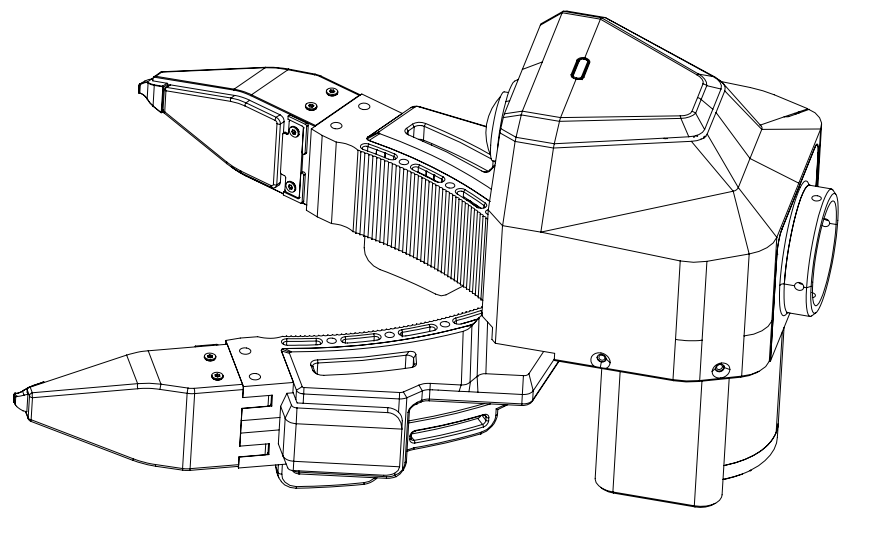
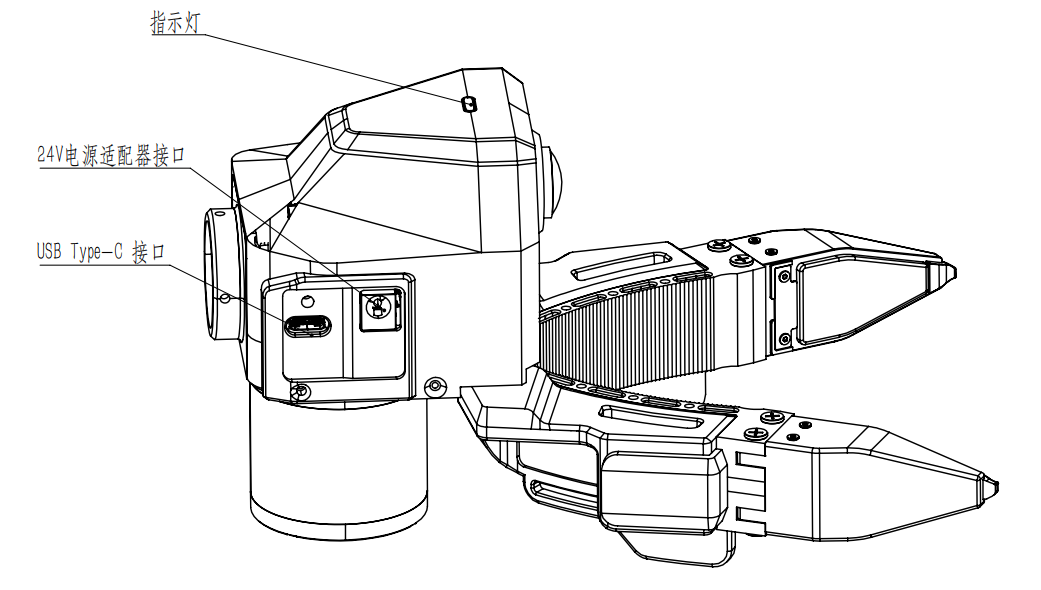
docs: 硬件章更新为官方《TC-GU-01 硬件使用说明 v0.0.1》
按 v0.0.1 重写:安全须知/产品组成/主爪连接/从爪安装/传感器维护/
上下电顺序/技术参数/异常排查;替换为 11 张新配图,删除旧图(含 6.9MB 巨图)。

diff --git a/docs/hardware.md b/docs/hardware.md
@@ -1,168 +1,159 @@
 # 硬件介绍
 
-TacCap-Gripper(对外市场名 **千觉 XTac UMI G1**)的机械、电气与操作构成。本章整理自硬件团队
-《TC-GU-01 硬件使用说明》框架,面向数采使用的**设备了解与上手**。
+TacCap-Gripper(对外市场名 **千觉 XTac UMI G1**)的机械、电气与操作说明。内容整理自硬件团队
+《TC-GU-01 硬件使用说明 **v0.0.1**》,面向数采使用的**设备了解与连接上手**。
 
-!!! info "版本与完善度"
-    硬件资料版本 **v1.0.0(夹爪 — 笔记本电脑)**;v2.0.0(夹爪 — 数采背包)待发布。
-    本页按硬件团队框架搭建,**标「待补」处**为对方仍在补充的内容(含拆箱图、视触觉拆装、
-    数采盒子连接、异常表、OTA 等),到位后接入。
+!!! danger "安全须知(连接/上电/拆装前必读)"
+    | 风险项 | 要求 | 后果 |
+    |---|---|---|
+    | 主夹爪供电 | 仅用配套 USB Type-C 线连数采终端,**DC 5V/500mA** | 规格不符可能损坏设备 |
+    | 禁止快充直连 | **禁止 9V/12V 快充适配器直连主夹爪** | 可能烧毁控制板 |
+    | 从夹爪供电 | 供电与通信分开,供电用 **24V 适配器** | 电源接错可能损坏硬件 |
+    | 线缆插拔 | 插拔带锁紧螺钉的 Type-C 前先停止采集;拔出前先松螺钉 | 避免接口受力/数据中断 |
+    | 静电防护 | 上下电、拆装传感器时注意防静电 | 静电影响传感器/通信 |
+    | 传感器表面 | 避免尖锐物触碰、划伤、挤压视触觉表面 | 弹性体/光学损伤影响数据 |
 
-## 部件构成
+## 产品组成
 
-| 部件 | 说明 | 接口 |
-|---|---|---|
-| 电机夹爪(motor jaw) | 主爪采集时不上电,手动带动;从爪经 FDCAN 透传灵足电机 | FDCAN1 @ 1 Mbps |
-| 编码器(Encoder) | 夹爪开合角(SDK 读数标定后闭合=0);开合规格见 [产品参数](#specs) | MCU |
-| IMU | 加速度 / 角速度 / 磁力 / 温度 | MCU |
-| 视触觉传感器 ×2 | 左右指各一,三色光视触觉成像 | UVC(`/dev/video*`) |
-| 腕部鱼眼相机 | 手腕视角 RGB,超大视场角 | UVC(`/dev/video*`) |
-| 主控 MCU(TC-GU-01) | STM32H562 + ThreadX | USB 串口 |
+| 部件 | 说明 |
+|---|---|
+| 主夹爪(区分左右) | 人手侧操作与数据采集;左右按标识区分;Type-C 统一供电+通信 |
+| 从夹爪(不区分左右) | 安装于机器人末端,用于执行端操作或回放;24V 供电 + Type-C 通信 |
+| 视触觉传感器 ×2 | 左右指各一,三色光视触觉成像 |
+| 腕部鱼眼相机 | 手腕视角 RGB,超大视场角 |
+| PICO 头显 + Pad | 头显用于头部视角与主爪轨迹提取;Pad 用于任务操作/状态查看(见 [3.4 Pico4 配置](03-host-hardware.md#34)) |
+| 主控 MCU(TC-GU-01) | STM32H562 + ThreadX |
 
-## 主爪与从爪 {#master-follower}
+!!! note "包装清单以随货为准"
+    标准系统配置(线缆、电源适配器、采集终端等)以**合同配置及随货发货清单**为准;
+    缺少关键线缆/电源/终端时请联系项目负责人或技术支持,勿自行替代。
 
 ### 主夹爪(区分左右)
 
-主爪通信与供电统一走 **Type-C**;左右按序列号「单左双右」区分(见 [序列号编码规则](#sn))。
+=== "左主夹爪"
 
-=== "主爪 · 左"
+    ![左主夹爪示意图](assets/hardware/master-left.png){ width="360" }
 
-    ![主夹爪 左](assets/hardware/main-gripper-left.png){ width="420" }
+=== "右主夹爪"
 
-=== "主爪 · 右"
+    ![右主夹爪示意图](assets/hardware/master-right.png){ width="360" }
 
-    ![主夹爪 右](assets/hardware/main-gripper-right.png){ width="420" }
+主夹爪的电源与通信统一通过 USB Type-C 完成;**按键**用于录制控制,**指示灯**用于判断运行状态。
+
+![主夹爪操作部件示意图(接口 / 按键 / 指示灯)](assets/hardware/master-controls.png){ width="480" }
 
 ### 从夹爪(不区分左右)
 
-![从夹爪](assets/hardware/follower-gripper.png){ width="420" }
+![从夹爪示意图](assets/hardware/follower-gripper.png){ width="360" }
 
-从爪的通信与供电**分开**:供电用 **24V 适配器**,通信用 Type-C。
+从夹爪安装在机器人末端,当前硬件不区分左右;安装时注意法兰方向、线缆走线与机器人运动空间。
 
-### 视触觉传感器
+## 主夹爪连接与使用 {#install}
 
-!!! warning "待补"
-    视触觉传感器示意图与拆装说明由硬件团队补充。
+### 连接前检查
 
-## 接口与供电 {#interface}
+- 备齐:左/右主夹爪、两根 **USB Type-C to Type-C 锁紧线**、笔记本/数采终端。
+- 确认**未使用 9V/12V 快充适配器**直连主夹爪。
+- 检查 Type-C 锁紧端完好、夹爪接口内无异物。
+- 检查视触觉传感器表面无污渍、划伤、松动、异物。
 
-### 电源 & USB 接口
+### 连接步骤
 
-![电源与 USB 接口位置](assets/hardware/interface-power-usb.png){ width="520" }
+主夹爪与上位机的连接关系:
 
-- 夹爪通过配套 **USB Type-C(C-to-C)** 线束连接数据采集终端;整机工作电源由 Type-C 供给,
-  标准供电 **DC 5V / 500 mA**。
-- 线材**带固定螺钉的一端接夹爪**,插入后拧紧螺钉。
+![主夹爪连接关系简图](assets/hardware/master-connection.jpg){ width="560" }
 
-!!! danger "禁止快充直连"
-    **禁止使用快充 9V / 12V 适配器直连夹爪**,否则会**烧毁夹爪控制板**。
+1. 取出 USB Type-C 通讯线。
+2. 连接主夹爪本体端的 Type-C 接口,**旋紧锁紧螺钉**。
+3. 另一端接数采终端的 Type-C 口,在采集软件中确认主夹爪通信正常。
 
-### 内部通信(技术参考)
+![主夹爪连接](assets/hardware/master-connect.png){ width="480" }
 
-```mermaid
-flowchart LR
-    HOST[数采终端] -- USB Type-C --> CH343[CH343 双串口]
-    CH343 -- USART3 3Mbps --> MCU[STM32H562]
-    MCU -- FDCAN1 1Mbps --> LZ[灵足电机<br/>从爪]
-    MCU --- IMU & ENC[编码器]
-    HOST -- UVC --> CAMS[2× 视触觉 + 1× 腕相机]
-```
+### 上电与识别
 
-- MCU 串口:CH343(`1a86:55d2`),枚举 `/dev/ttyACM*`,USART3 @ 3 Mbps。
-- 相机:视触觉与腕相机为 UVC(`/dev/video*`)。
+主夹爪**无需单独电源**,供电与通信都走 Type-C。连接后观察指示灯,并在采集软件中确认左右主夹爪识别正常。
 
-## 按键与指示灯 {#buttons-leds}
+### 指示灯状态 {#buttons-leds}
 
-### 按键
-
-![按键位置](assets/hardware/buttons.png){ width="420" }
-
-| 按键位置 | 动作 | 功能 |
+| 指示灯 | 含义 | 用户动作 |
 |---|---|---|
-| 主爪 · 左键 | 单击 | **开始录制** |
-| | 双击 | 用户自定义 |
-| | 长按 | 用户自定义 |
-| 主爪 · 右键 | 单击 | 切换下一流程 |
-| | 双击 | 重新录制当前回合 |
-| | 长按 | 退出当前录制 |
+| 绿色长亮 | 运行中 | 已上电,正常运行 |
+| 绿色闪烁 | 正在录制 | 保持操作,避免断电/拔线 |
+| 红色闪烁 | 故障 | 停止录制,按[异常排查](#troubleshoot)检查 |
+| 蓝色闪烁 | OTA 升级中 | 升级期间**不要断电/拔线** |
+
+### 按键功能
+
+| 按键 | 动作 | 功能 | 场景 |
+|---|---|---|---|
+| 主爪左键 | 单击 | **开始录制** | 准备完成后开始采集 |
+| 主爪左键 | 双击 / 长按 | 用户自定义 | 按项目软件配置 |
+| 主爪右键 | 单击 | 切换下一流程 | 当前步骤完成 |
+| 主爪右键 | 双击 | 重新录制当前回合 | 回合失败/操作错误/数据异常 |
+| 主爪右键 | 长按 | 退出当前录制 | 需中断录制时 |
 
 !!! note "与软件采集的联动"
-    按键功能为**设备侧定义**;与 `lerobot-record` 采集流程的具体联动以实际集成为准,
-    采集操作见 [数据采集](05-data-collection.md)。
+    按键为**设备侧定义**;与 `lerobot-record` 的具体联动以实际集成为准,采集操作见 [数据采集](05-data-collection.md)。
 
-### 指示灯
+## 从夹爪安装与连接
 
-![指示灯位置](assets/hardware/leds.png){ width="420" }
+### 安装前检查
 
-| 状态 | 含义 |
-|---|---|
-| 绿色长亮 | 运行中 |
-| 绿色闪烁 | 正在录制 |
-| 红色闪烁 | 故障 |
-| 蓝色闪烁 | OTA 升级中 |
+- 确认机器人已停机、处于安全姿态。
+- 确认末端法兰尺寸、螺钉规格、安装方向与末端负载满足项目要求。
+- 确认 24V 适配器、Type-C 通信线与锁紧结构完好。
+- 规划线缆走线,避免与关节/夹爪运动区/障碍物干涉。
 
-## 安装与连接 {#install}
+### 法兰安装
 
-### 拆箱
+从夹爪通过法兰安装到机器人末端(尺寸/孔位见下图)。
 
-!!! warning "待补"
-    拆箱示意图待补充。
+=== "法兰安装"
 
-### 主爪连接(笔记本电脑)
+    ![从夹爪法兰安装](assets/hardware/follower-flange-1.png){ width="420" }
 
-![夹爪 — 笔记本连接](assets/hardware/connection-laptop.jpg){ width="640" }
+=== "法兰尺寸"
 
-如上图,使用**两根 Type-C to Type-C 线材**,连接左右主爪到数采终端。
+    ![从夹爪法兰安装尺寸](assets/hardware/follower-flange-2.png){ width="420" }
 
-!!! note "待补:数采盒子连接(TBD)"
-    夹爪 — 数采背包/盒子的整机连接示意图待 v2.0.0 补充。
+### 电源与通信连接
 
-### 从爪安装
+从夹爪**通信与供电分开**:通信走 Type-C,供电用 24V 适配器。
 
-![从爪法兰安装](assets/hardware/follower-flange-mount.png){ width="420" }
+![从夹爪连接关系简图](assets/hardware/follower-connection.jpg){ width="560" }
 
-- **法兰安装**:按上图将从爪安装到机器人法兰。
-- **数据电源线连接**:*待补*。
+1. 取出 USB Type-C 通讯线、24V 电源适配器。
+2. 连接从夹爪本体端的 **24V 电源适配器**。
+3. 将 Type-C 锁紧线带螺钉的一端接从夹爪本体,**旋紧锁紧螺钉**。
+4. 另一端接数采终端,在软件中确认从夹爪通信正常。
 
-### 视触觉传感器拆装
+![从夹爪连接](assets/hardware/follower-connect.png){ width="480" }
 
-!!! warning "待补"
-    传感器拆装示意图待补充。
+!!! warning "线缆与安装检查"
+    确认从夹爪固定牢靠、24V 连接可靠、Type-C 已锁紧并留足余量;线缆不会在机器人运动中被拉扯/弯折/缠绕。
+    **首次运行前建议低速测试**,确认无干涉。
 
-## 上下电步骤 {#power}
+## 视触觉传感器维护与拆装
 
-### 上电
+![传感器拆装步骤](assets/hardware/sensor-removal.png){ width="480" }
 
-=== "主爪"
+- 表面有灰尘时用**无尘布**轻拭。
+- **不要**用尖锐物刮擦表面;不要让胶水/油污/金属碎屑/腐蚀性液体接触表面。
+- 拆装后若图像质量明显下降,检查传感器是否压紧、有无污渍,或**重新标定**。
 
-    主爪无单独电源,通信与供电统一用 Type-C:
+更多保养见 [维护保养](maintenance.md)。
 
-    1. 将 Type-C 线带螺栓锁扣的一端连接到夹爪本体,旋紧螺栓。
-    2. 将另一端连接到数采终端的 Type-C 口。
+## 上电与下电顺序
 
-=== "从爪"
+| 设备 | 供电 | 上电顺序 | 下电顺序 |
+|---|---|---|---|
+| 主夹爪 | USB Type-C,DC 5V/500mA | 先连夹爪端并锁紧,再连数采终端 | 先拔数采终端端,再松螺钉拔夹爪端 |
+| 从夹爪 | 24V 适配器 + Type-C | 先连 24V 电源,再连 Type-C 并锁紧 | 先拔数采终端端,再断 24V,最后拔夹爪端 Type-C |
 
-    从爪通信与供电分开(供电 24V 适配器):
+上电后观察指示灯并在软件确认识别正常;下电前先**停止当前采集/录制/机器人运动/回放**。
 
-    1. 连接夹爪本体端的电源适配器。
-    2. 将 Type-C 线带螺栓锁扣的一端连接到夹爪本体。
-    3. 将另一端连接到数采终端的 Type-C 口。
-
-### 下电
-
-=== "主爪"
-
-    1. 拔掉数采终端的 Type-C 线。
-    2. 松开夹爪本体 Type-C 的锁扣螺栓,拔掉夹爪上的 Type-C 线。
-
-=== "从爪"
-
-    1. 拔掉数采终端的 Type-C 线。
-    2. 拔掉夹爪本体的电源适配器。
-    3. 拔掉夹爪本体的 Type-C 线。
-
-!!! warning "注意静电"
-    上下电过程中注意防静电。
+!!! warning "静电与异常"
+    上下电注意防静电。若出现异常重启、无法识别或红灯闪烁,立即停止并按[异常排查](#troubleshoot)处理。
 
 ## 序列号编码规则 {#sn}
 
@@ -175,59 +166,53 @@ product batch│  seq patch  seq    : 末位奇→左, 偶→右(单左双右)
              line          patch  : m=Master(主/Leader), s=Slave(从/Follower)
 ```
 
-## 产品参数 {#specs}
+## 技术参数 {#specs}
 
-参数以**市场部对外官方资料为准**(整机能力)。采集时的实际速率可按需配置(例如触觉以较低帧率录制),
-属**使用选择**,不改变传感器规格。
+### 电气与接口
 
-### 基础与结构
+| 项目 | 主夹爪 | 从夹爪 |
+|---|---|---|
+| 供电 | USB Type-C | 24V 电源适配器 |
+| 通信 | USB Type-C | USB Type-C |
+| 标准供电规格 | DC 5V/500mA | 24V |
+| 线缆 | 配套 Type-C to Type-C 锁紧线 | Type-C 通信线 + 24V 电源线 |
+| 禁止事项 | 禁止 9V/12V 快充直连 | 禁止供电规格不匹配/带故障电源 |
+
+### 产品规格(整机)
+
+参数以**市场部对外官方资料为准**。采集时实际速率可按需配置(如触觉以较低帧率录制),属**使用选择**,不改变传感器规格。
 
 | 参数项 | 规格 |
 |---|---|
-| 夹爪类型 | 二指结构 |
-| 外形尺寸 | 145 × 186 × 170 mm(长 × 宽 × 高) |
-| 重量(主爪) | 约 370 g |
-| 最大负载 | 2.5 kg |
+| 夹爪类型 / 外形 | 二指结构;145 × 186 × 170 mm |
+| 重量(主爪)/ 负载 | 约 370 g;最大 2.5 kg |
 | 开合行程 / 角度 | 0–150 mm / -9° 至 +50° |
-| 续航 | 3 小时,或使用电源适配器 |
-| 供电 | 主爪:USB Type-C,DC 5V/500mA;从爪:24V 适配器(⚠️ 禁快充直连) |
-| 通信方式 | USB 2.0(Type-C,C-to-C) |
-| 存储 | 本地、上云 |
-
-### 传感、同步与数据
-
-| 参数项 | 规格 |
-|---|---|
-| 多设备时间同步 | 5 ms |
-| 空间定位精度 | < 3 mm |
-| 视触觉传感器 | 2 × 三色光视触觉;量程 0–25 N |
-| 触觉帧率 / 分辨率 | 120 FPS;640 × 480 MJPG |
-| 触觉数据类型 | 原始触觉 / 三维形貌;三维分布力 / 六维合力 |
+| 续航 | 3 小时,或电源适配器 |
+| 多设备时间同步 / 定位 | 5 ms;< 3 mm |
+| 视触觉 | 2 × 三色光,量程 0–25 N,120 FPS(640×480 MJPG) |
 | IMU | 9 轴,200 Hz |
-| 腕部鱼眼相机 | FOV 190°;1920 × 1080 @ 60 FPS MJPG |
-| 输出数据类型 | RGB 图像、多模态触觉、夹爪开口角度、IMU、空间定位轨迹 |
+| 腕部鱼眼相机 | FOV 190°;1920×1080 @ 60 FPS MJPG |
+| 输出数据 | RGB、多模态触觉、夹爪开口角度、IMU、空间定位轨迹 |
 
-!!! note "实际录制速率"
-    上表为传感器/整机规格。数采时可配置更低速率(如触觉常以较低帧率录制),
-    见 [数据采集 → 录制选项](05-data-collection.md#55)。
+!!! note "内部通信(技术参考)"
+    对外接口为 USB Type-C;内部 MCU 串口经 CH343(`1a86:55d2`)桥接,枚举 `/dev/ttyACM*`,
+    USART3 @ 3 Mbps;视触觉与腕相机为 UVC(`/dev/video*`);从爪经 FDCAN1 @ 1 Mbps 透传灵足电机。
 
-## 异常处理
+## 异常排查 {#troubleshoot}
 
-!!! warning "待补"
-    硬件异常现象与解决方案待补充(硬件 / 嵌入式 / 结构)。
-    软件/采集类问题见 [故障排查](troubleshooting.md);日常保养见 [维护保养](maintenance.md)。
+先记录「设备型号/编号、连接方式、指示灯状态、软件报错、现场照片」,再按下表排查;软件类问题见 [故障排查](troubleshooting.md)。
 
-## OTA 升级
+| 现象 | 可能原因 | 处理 |
+|---|---|---|
+| 指示灯不亮 | 线缆未插紧/供电不足/接口损坏 | 重插线缆、确认配套 Type-C、换终端接口;仍异常则停用 |
+| 软件识别不到主夹爪 | USB 异常/线缆故障/软件未刷新 | 检查左右连接、重开采集软件、换 Type-C 接口或线缆 |
+| 红色闪烁 | 设备故障/通信异常 | 停止录制并重新上电;反复出现则联系技术支持(附灯态与日志) |
+| 图像黑屏/无图像 | UVC 未识别/传感器连接异常/通道选错 | 检查系统是否识别 UVC、重启采集软件、重新上电 |
+| 图像污点/模糊 | 表面污渍/异物/损伤 | 无尘布清洁;有划伤/凹陷需更换传感器 |
+| 录制过程中断 | 线缆松动/接触不良/供电不稳 | 检查锁紧螺钉、避免线缆受力、重录当前回合 |
+| 从夹爪不上电 | 24V 未连接/适配器异常 | 检查 24V 适配器、插座、电源接口与规格 |
+| 从夹爪通信异常 | Type-C 未连/未识别/线缆干涉 | 重连 Type-C、检查机器人运动是否拉扯线缆 |
+| OTA 蓝灯过久 | 升级未完成/流程异常 | 升级期间勿断电;长时间无变化按 OTA 指引并联系支持 |
 
-!!! note "待补(TBD)"
-    固件 OTA 升级流程待补充;SDK 侧 OTA 见 [SDK 示例](sdk-examples.md)。
-
-## 待补清单
-
-- 拆箱示意图
-- 视触觉传感器示意与拆装
-- 从爪数据电源线连接
-- 数采盒子/背包整机连接(v2.0.0)
-- 异常处理表(硬件 / 嵌入式 / 结构)
-- OTA 升级流程
-- 机械爆炸图 → `docs/assets/hardware/`
+!!! danger "严重异常"
+    若发生异味、冒烟、明显发热、结构破损或线缆破皮,**立即断电并停止使用**。